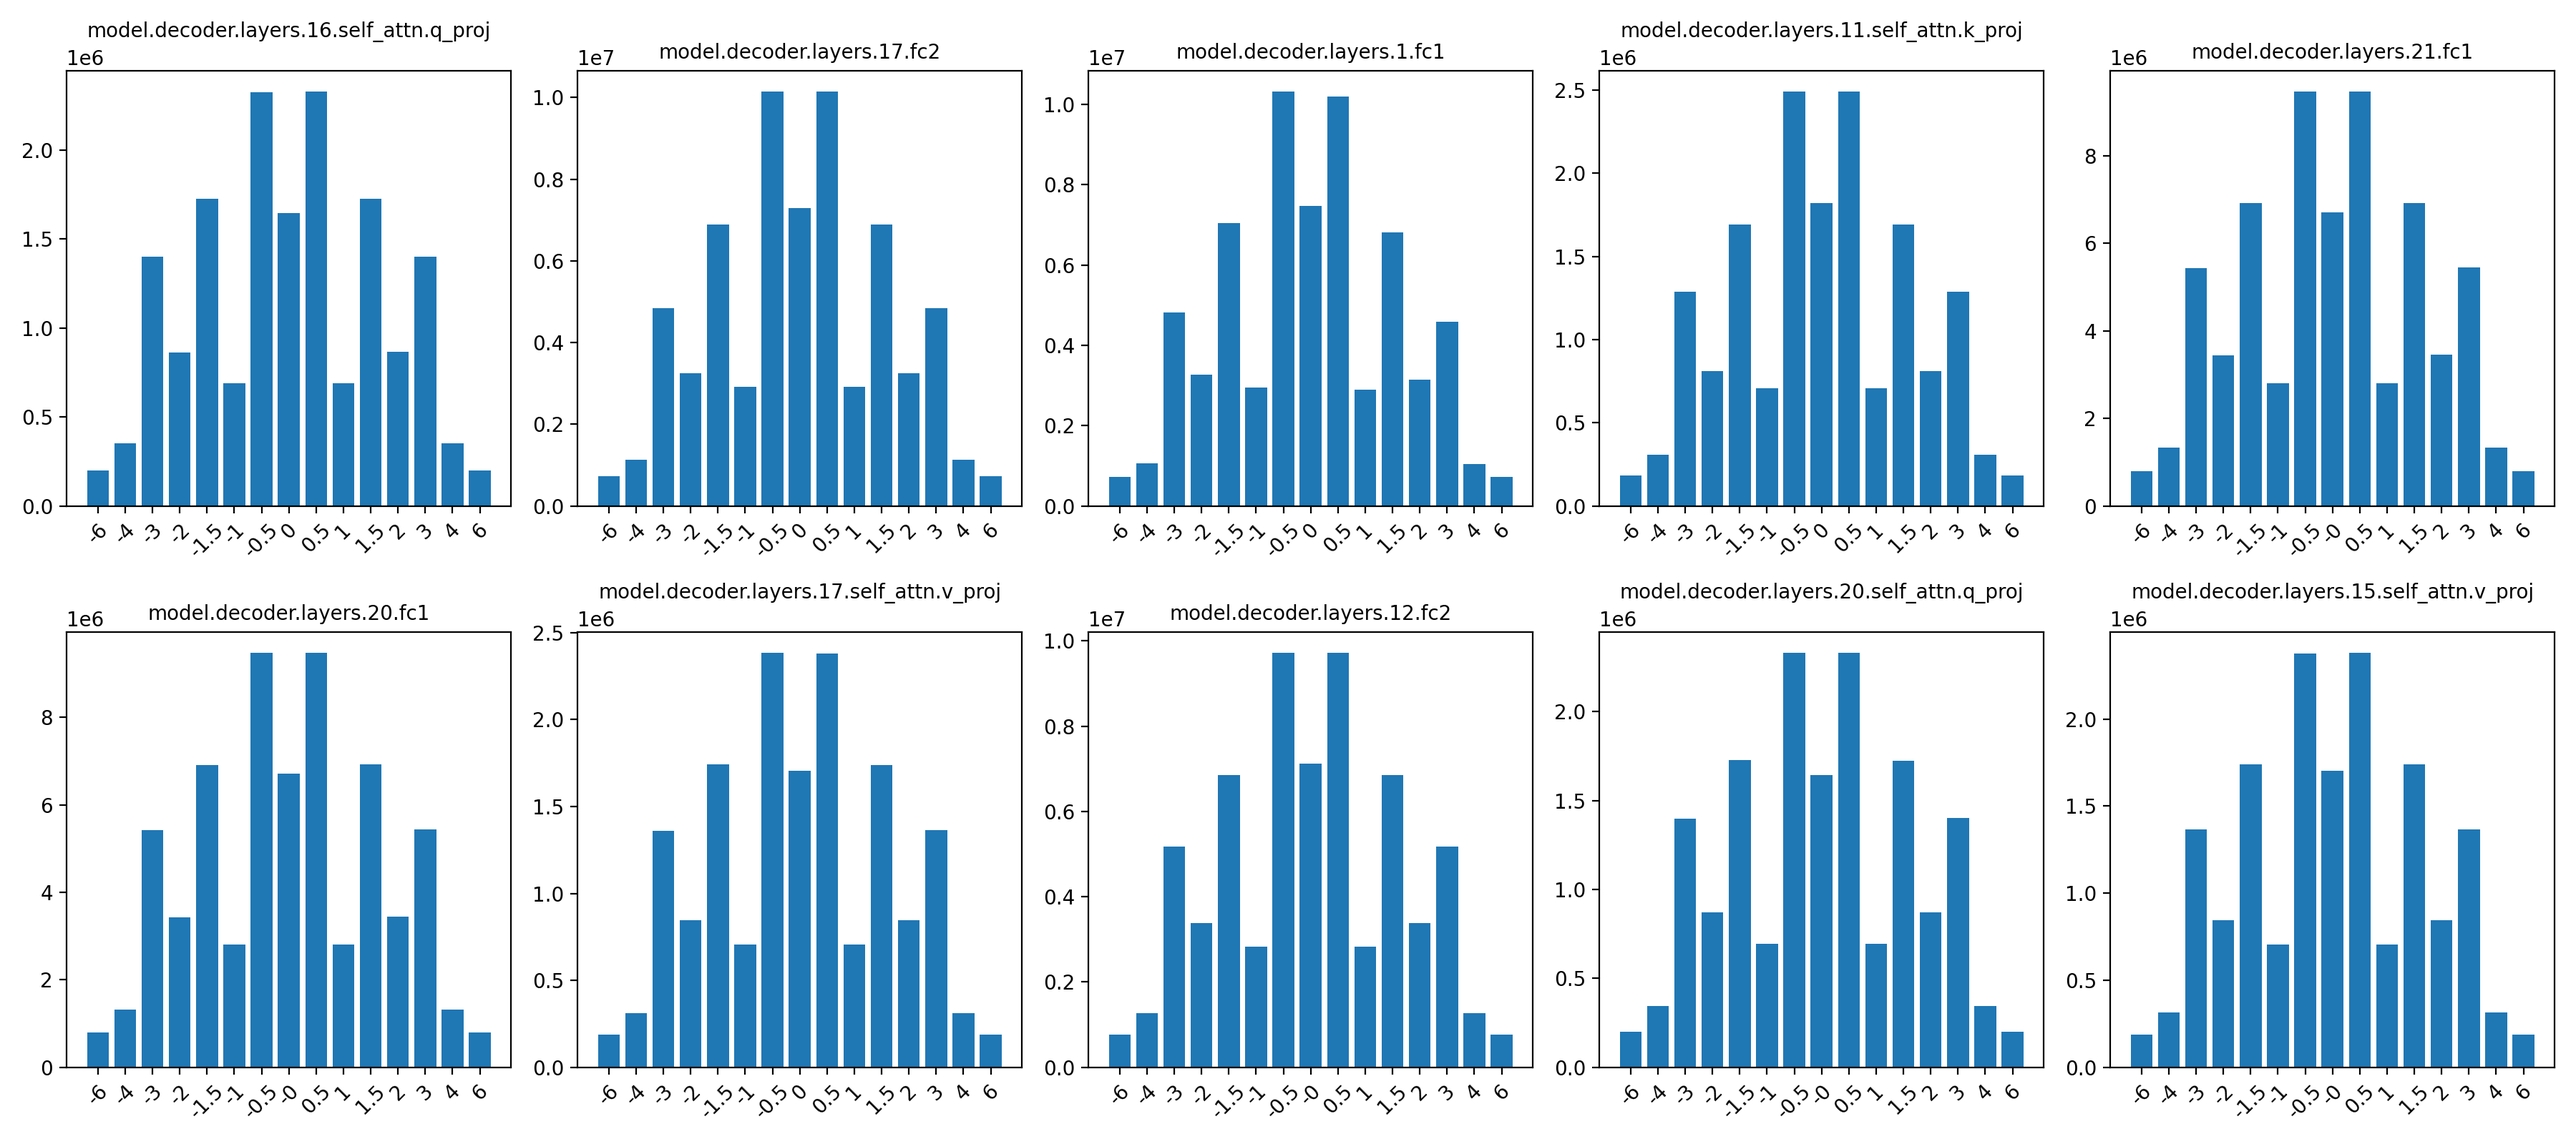
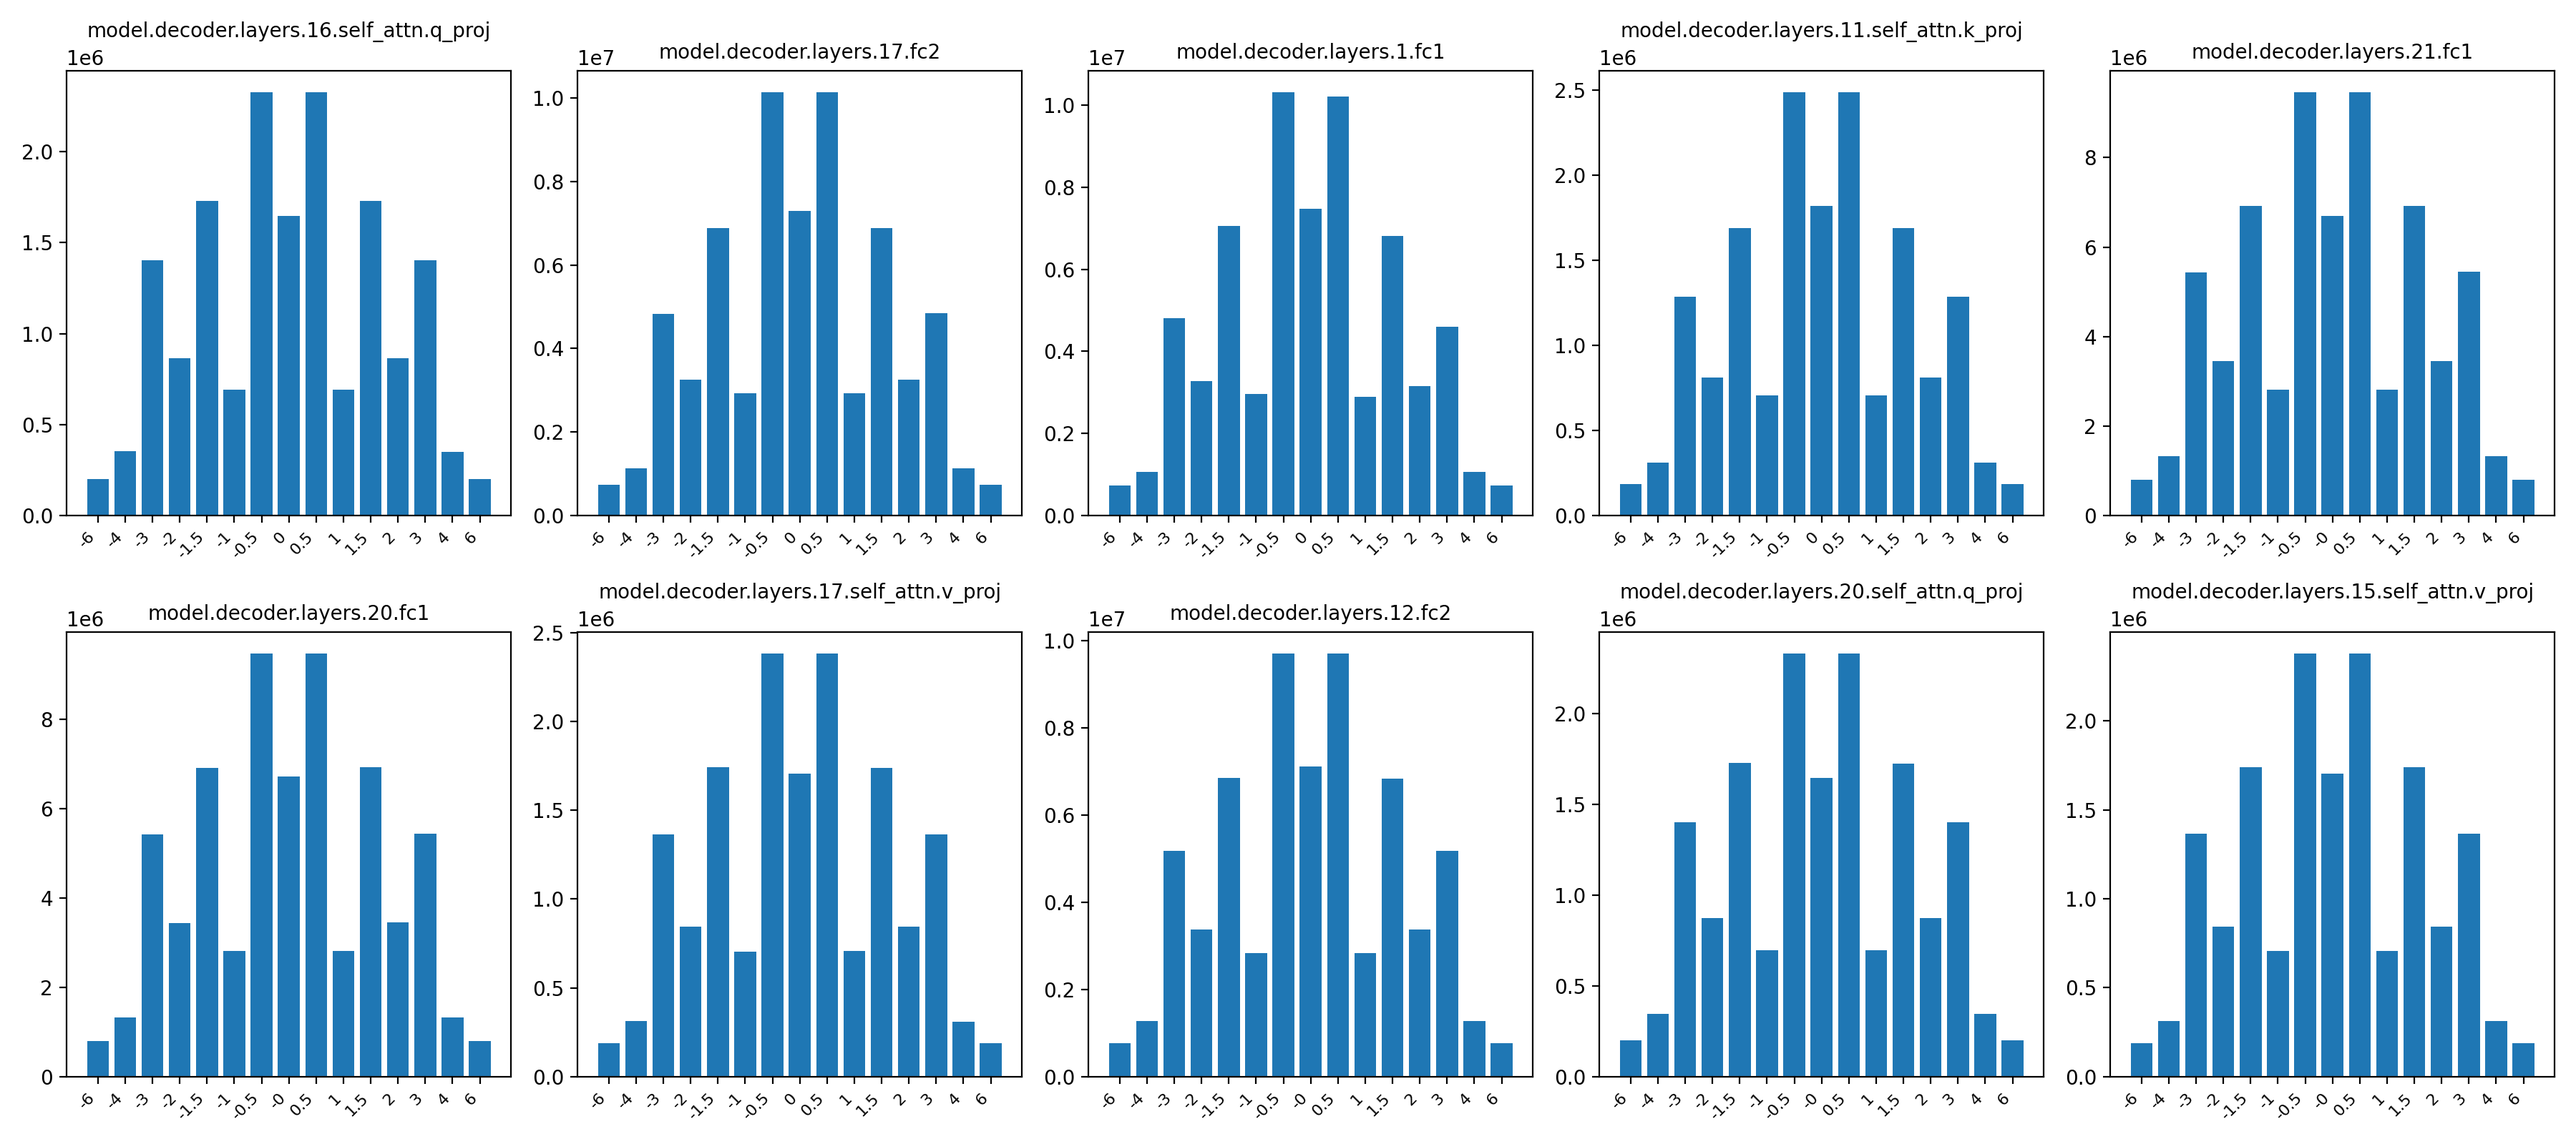
FP4、FP6可视化完成

diff --git a/visualize_utils.py b/visualize_utils.py
@@ -1,6 +1,7 @@
 import random
 import torch
 import matplotlib.pyplot as plt
+import numpy as np
 
 from quant_linear import _count_fp4_values, FP4_EXP_BITS, FP4_MANTISSA_BITS, FP6_EXP_BITS, FP6_MANTISSA_BITS
 
@@ -48,16 +49,17 @@ def plot_random_fp4_dists(
         values, counts = _count_fp4_values(codes, exp_bits=exp_bits, mant_bits=mant_bits, exp_bias=exp_bias)
         v = values.cpu().numpy()
         c = counts.cpu().numpy()
-        ax.bar(range(len(v)), c, tick_label=[f"{x:.3g}" for x in v])
+        ax.bar(range(len(v)), c)
         ax.set_title(name, fontsize=10)
         # 为避免横坐标过于拥挤，只保留部分刻度标签
-        step = max(1, len(v) // 8)
-        for lbl in ax.get_xticklabels():
-            lbl.set_visible(False)
-        for i, lbl in enumerate(ax.get_xticklabels()):
-            if i % step == 0:
-                lbl.set_visible(True)
-        ax.tick_params(axis='x', rotation=45)
+        step = max(1, len(v) // 10)
+        show_idx = list(range(0, len(v), step))
+        if show_idx[-1] != len(v) - 1:
+            show_idx.append(len(v) - 1)
+        show_labels = [f"{v[i]:.3g}" for i in show_idx]
+        ax.set_xticks(show_idx)
+        ax.set_xticklabels(show_labels, rotation=45, ha="right")
+        ax.tick_params(axis='x', labelsize=8)
     for ax in axes[len(picked):]:
         ax.axis("off")
     fig.tight_layout()
@@ -99,14 +101,71 @@ def plot_random_fp6_dists(
         values, counts = _count_fp4_values(codes, exp_bits=exp_bits, mant_bits=mant_bits, exp_bias=exp_bias)
         v = values.cpu().numpy()
         c = counts.cpu().numpy()
-        ax.bar(range(len(v)), c, tick_label=[f"{x:.3g}" for x in v])
-        ax.set_title(name, fontsize=10)
-        ax.tick_params(axis='x', rotation=45)
+
+        labels = [f"{x:.3g}" for x in v]
+        ax.bar(range(len(v)), c)
+        step = 4
+        idx = list(range(0, len(v), step))
+        ax.set_xticks(idx)
+        ax.set_xticklabels([labels[i] for i in idx], rotation=45, ha="right")
+        ax.tick_params(axis='x', labelsize=8)
     for ax in axes[len(picked):]:
         ax.axis("off")
     fig.tight_layout()
     fig.savefig(save_path, dpi=200)
     print(f"FP6 值分布子图已保存到 {save_path}")
+
+
+def plot_random_fp6_uniform_bins(
+    model,
+    k=10,
+    seed=0,
+    save_path="./results/fp6_uniform_bins.png",
+    exp_bits=FP6_EXP_BITS,
+    mant_bits=FP6_MANTISSA_BITS,
+    exp_bias=None,
+    num_bins=20,
+):
+    """
+    随机抽取 k 个（最多 10 个）FP6 量化的线性层，按均匀分桶绘制值分布。
+    横轴为均匀分桶的区间中心，纵轴为每个区间内的元素个数（counts 作为权重）。
+    """
+    if exp_bias is None:
+        exp_bias = (1 << (exp_bits - 1)) - 1
+    random.seed(seed)
+    linears = collect_linears(model)
+    print(f"总 Linear/QuantLinear 数量: {len(linears)}")
+    if len(linears) == 0:
+        raise ValueError("模型中没有 Linear/QuantLinear 模块")
+
+    picked = random.sample(linears, min(k, len(linears)))
+
+    fig, axes = plt.subplots(2, 5, figsize=(18, 8))
+    axes = axes.flatten()
+    for ax, (name, layer) in zip(axes, picked):
+        codes = getattr(layer, "weight_fp6", None)
+        if codes is None:
+            ax.set_title(f"{name}\n(no fp6)")
+            ax.axis("off")
+            continue
+        values, counts = _count_fp4_values(codes, exp_bits=exp_bits, mant_bits=mant_bits, exp_bias=exp_bias)
+        v = values.cpu().numpy()
+        c = counts.cpu().numpy()
+        if len(v) == 0:
+            ax.set_title(f"{name}\n(empty)")
+            ax.axis("off")
+            continue
+        v_min, v_max = float(v.min()), float(v.max())
+        bin_counts, bin_edges = np.histogram(v, bins=num_bins, range=(v_min, v_max), weights=c)
+        bin_centers = 0.5 * (bin_edges[:-1] + bin_edges[1:])
+        ax.bar(bin_centers, bin_counts, width=bin_edges[1] - bin_edges[0])
+        ax.set_title(name, fontsize=10)
+        ax.tick_params(axis='x', labelsize=8, rotation=45)
+    for ax in axes[len(picked):]:
+        ax.axis("off")
+    fig.tight_layout()
+    fig.savefig(save_path, dpi=200)
+    print(f"FP6 均匀分桶值分布子图已保存到 {save_path}")
 
 
 def plot_random_fp4_exponent_dists(
@@ -142,7 +201,12 @@ def plot_random_fp4_exponent_dists(
         exp_vals, exp_counts = torch.unique(exp_field, sorted=True, return_counts=True)
         x = exp_vals.cpu().numpy()
         y = exp_counts.cpu().numpy()
-        ax.bar(range(len(x)), y, tick_label=[str(int(v)) for v in x])
+        bars = ax.bar(range(len(x)), y, tick_label=[str(int(v)) for v in x])
+        total = y.sum()
+        if total > 0:
+            for i, bar in enumerate(bars):
+                perc = y[i] / total * 100
+                ax.text(bar.get_x() + bar.get_width() / 2, bar.get_height(), f"{perc:.2f}", ha="center", va="bottom", fontsize=8)
         ax.set_title(name, fontsize=10)
         ax.set_xlabel("exp field")
         ax.set_ylabel("count")
@@ -187,7 +251,12 @@ def plot_random_fp6_exponent_dists(
         exp_vals, exp_counts = torch.unique(exp_field, sorted=True, return_counts=True)
         x = exp_vals.cpu().numpy()
         y = exp_counts.cpu().numpy()
-        ax.bar(range(len(x)), y, tick_label=[str(int(v)) for v in x])
+        bars = ax.bar(range(len(x)), y, tick_label=[str(int(v)) for v in x])
+        total = y.sum()
+        if total > 0:
+            for i, bar in enumerate(bars):
+                perc = y[i] / total * 100
+                ax.text(bar.get_x() + bar.get_width() / 2, bar.get_height(), f"{perc:.2f}", ha="center", va="bottom", fontsize=8)
         ax.set_title(name, fontsize=10)
         ax.set_xlabel("exp field")
         ax.set_ylabel("count")

diff --git a/main.py b/main.py
@@ -226,8 +226,13 @@ def run_quantization_experiment(args):
 
             model = quantize_model(model, quant_args)
             # 可视化
-            # plot_random_fp4_dists(model, k=10, seed=0, save_path="./results/fp4_dists.png")
-            plot_random_fp4_exponent_dists(model, k=10, seed=0, save_path="./results/fp4_exponent_dists.png")
+            if args.w_format == "fp4" and 4 in args.w_bits:
+                plot_random_fp4_dists(model, k=10, seed=0, save_path="./results/fp4_dists.png")
+                plot_random_fp4_exponent_dists(model, k=10, seed=0, save_path="./results/fp4_exponent_dists.png")
+            if args.w_format == "fp6" and 6 in args.w_bits:
+                plot_random_fp6_dists(model, k=10, seed=0, save_path="./results/fp6_dists.png")
+                plot_random_fp6_uniform_bins(model, k=10, seed=42, num_bins=16, save_path="./results/fp6_uniform_bins.png")
+                plot_random_fp6_exponent_dists(model, k=10, seed=0, save_path="./results/fp6_exponent_dists.png")
 
         # Initialize evaluator
         device = next(model.parameters()).device

diff --git a/quant_linear.py b/quant_linear.py
@@ -8,8 +8,8 @@ MANTISSA_BITS = 12
 FP4_EXP_BITS = 2
 FP4_MANTISSA_BITS = 1
 FP4_EXP_BIAS = 2 ** (FP4_EXP_BITS - 1) - 1
-FP6_EXP_BITS = 3
-FP6_MANTISSA_BITS = 2
+FP6_EXP_BITS = 2
+FP6_MANTISSA_BITS = 3
 FP6_EXP_BIAS = 2 ** (FP6_EXP_BITS - 1) - 1
 
 
